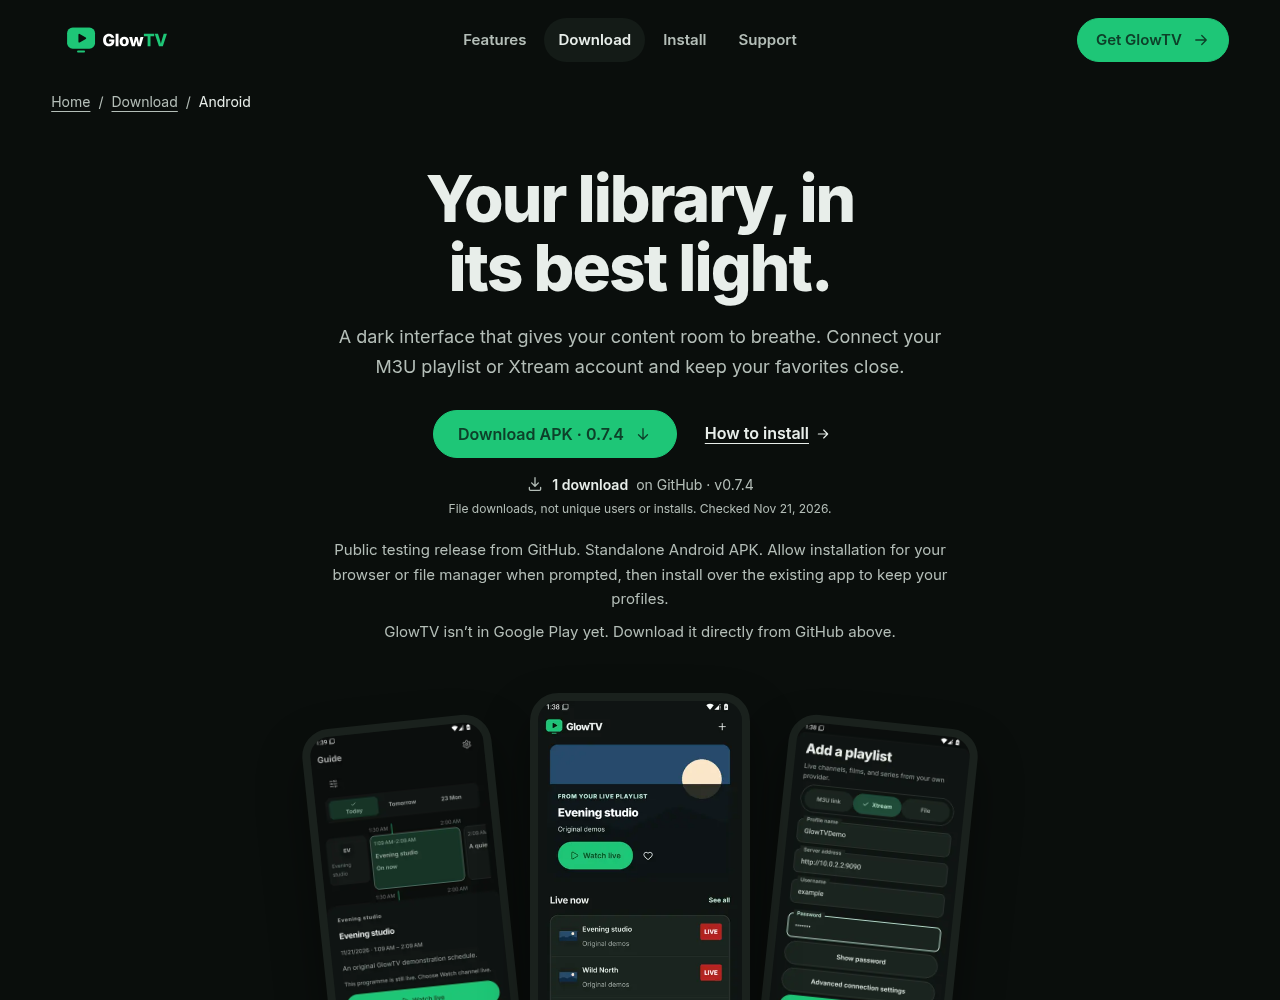
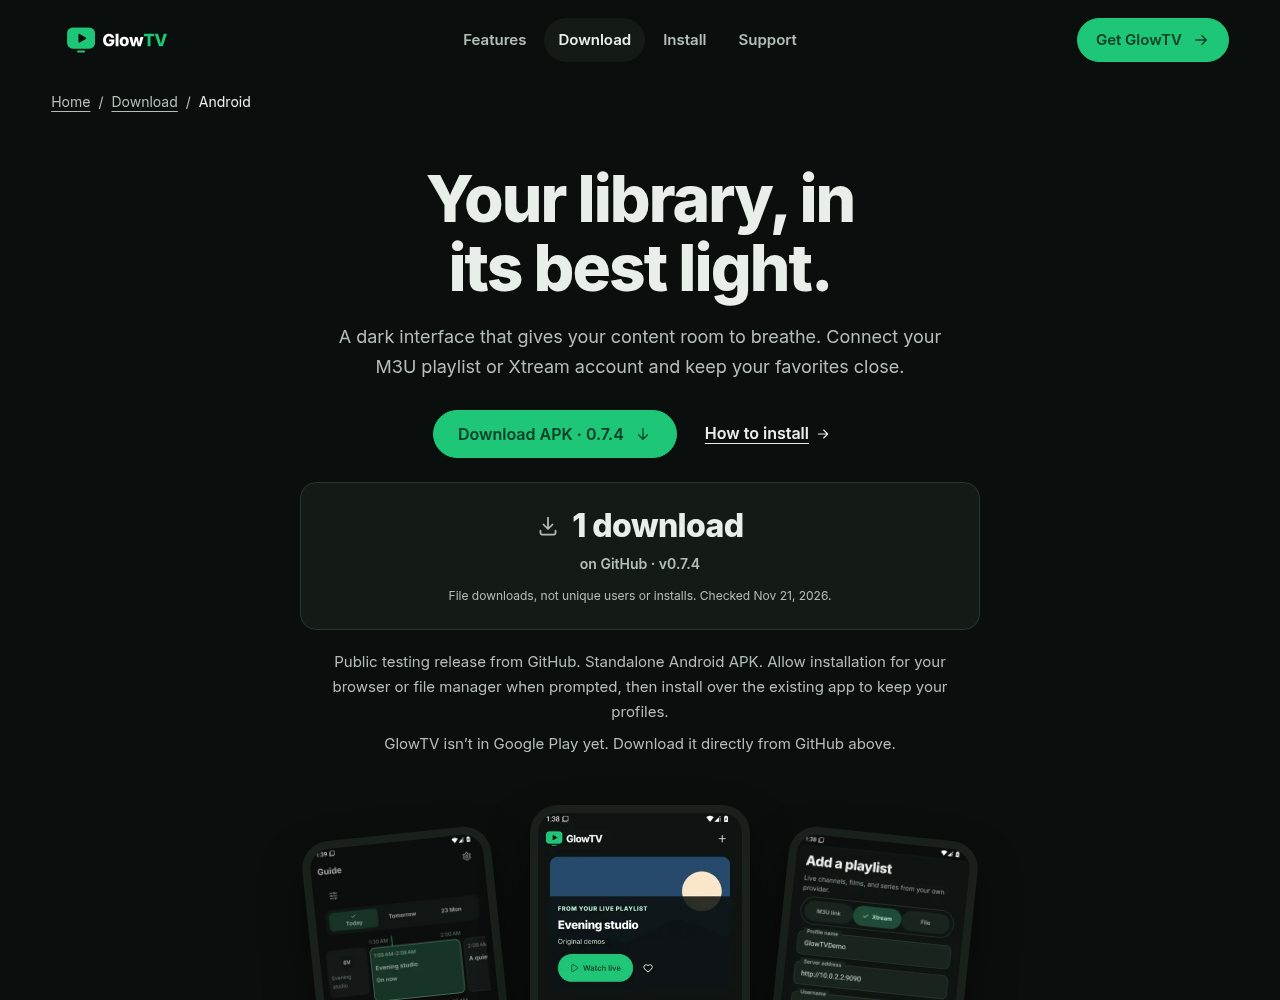
Clarify user review attribution and emphasize download totals

Changed region(s): [[0.25, 0.465, 0.7188, 1.0], [0.25, 0.775, 0.4062, 1.0]]

diff --git a/verification/glowtv/website-download-counts/README.md b/verification/glowtv/website-download-counts/README.md
@@ -2,7 +2,7 @@
 
 The iPhone, Android and TV download pages show the public GitHub download count for their exact pinned binary asset, alongside the version and check date. These are file downloads, not unique users or installations. Optional browser refreshes use GitHub’s public API and a five-minute session cache; unavailable or rate-limited requests retain the dated build snapshot. No credentials are sent. The privacy page explains this request.
 
-The home and platform pages include the nine testimonials supplied by the site owner, with team attribution. Two exact excerpts avoid implying that GlowTV supplies channels. No numerical rating, verified badge or review structured data was added. Remaining comments expand using native details, and visitors can submit feedback or request features through GitHub.
+The homepage places testimonials before the setup steps. Prominent download panels use 28 px mobile / 32 px desktop totals and a contrasting surface. The home and platform pages include the nine testimonials supplied by the site owner, with attribution to users across social media platforms, as confirmed by the site owner. Two exact excerpts avoid implying that GlowTV supplies channels. No numerical rating, verified badge or review structured data was added. Remaining comments expand using native details, and visitors can submit feedback or request features through GitHub.
 
 Verification: eight unit tests passed; Astro reported zero errors or warnings; production build passed; all 27 generated pages passed the existing link, HTML, accessibility and responsive audit. Counter tests also cover large values, cached refresh, mismatched asset metadata and blocked GitHub requests. Mobile Lighthouse scores and detailed results are in checks.json and audit.json. Eight fresh screenshots show the actual snapshot count, mobile/desktop download layout and community feedback. These are browser checks, not native app screenshots.
 
